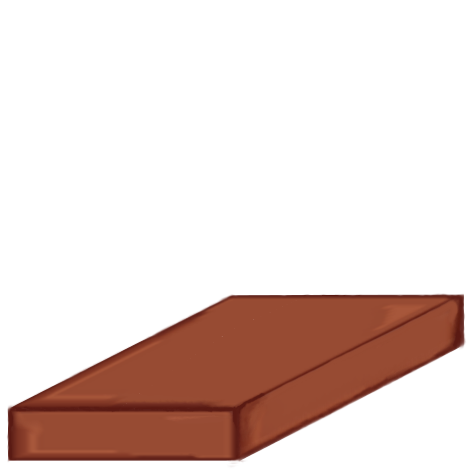
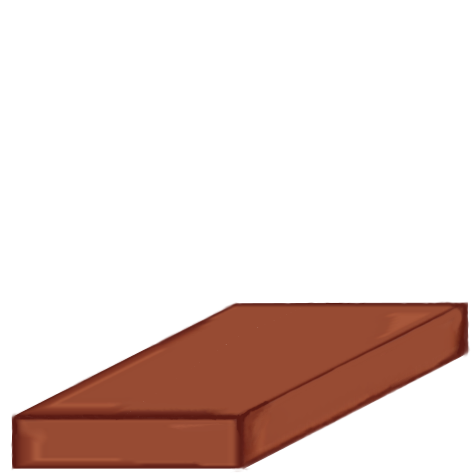
Added visuals for scrap amount in stockpile

Changed region(s): [[0.0, 0.6216, 1.0, 1.0]]

diff --git a/Scrap Threats/Stockpile.cs b/Scrap Threats/Stockpile.cs
@@ -18,6 +18,23 @@ namespace Scrap_Threats
 
         public override void Draw(SpriteBatch spriteBatch)
         {
+            if (GameWorld.scrap == 0) //No scrap
+            {
+                sprite = GameWorld.ContentManager.Load<Texture2D>("stockpile_0");
+            }
+            else if (GameWorld.scrap > 0 && GameWorld.scrap <= 250) //Some scrap
+            {
+                sprite = GameWorld.ContentManager.Load<Texture2D>("stockpile_1");
+            }
+            else if (GameWorld.scrap > 250 && GameWorld.scrap <= 500) //Medium scrap
+            {
+                sprite = GameWorld.ContentManager.Load<Texture2D>("stockpile_2");
+            }
+            else if (GameWorld.scrap > 500) //Lots of scrap
+            {
+                sprite = GameWorld.ContentManager.Load<Texture2D>("stockpile_3");
+            }
+
             spriteBatch.Draw(sprite, Position, null, Color.White, rotation, new Vector2(sprite.Width * 0.5f, sprite.Height * 0.5f), scale, SpriteEffects.None, 0.1f);
         }
 
